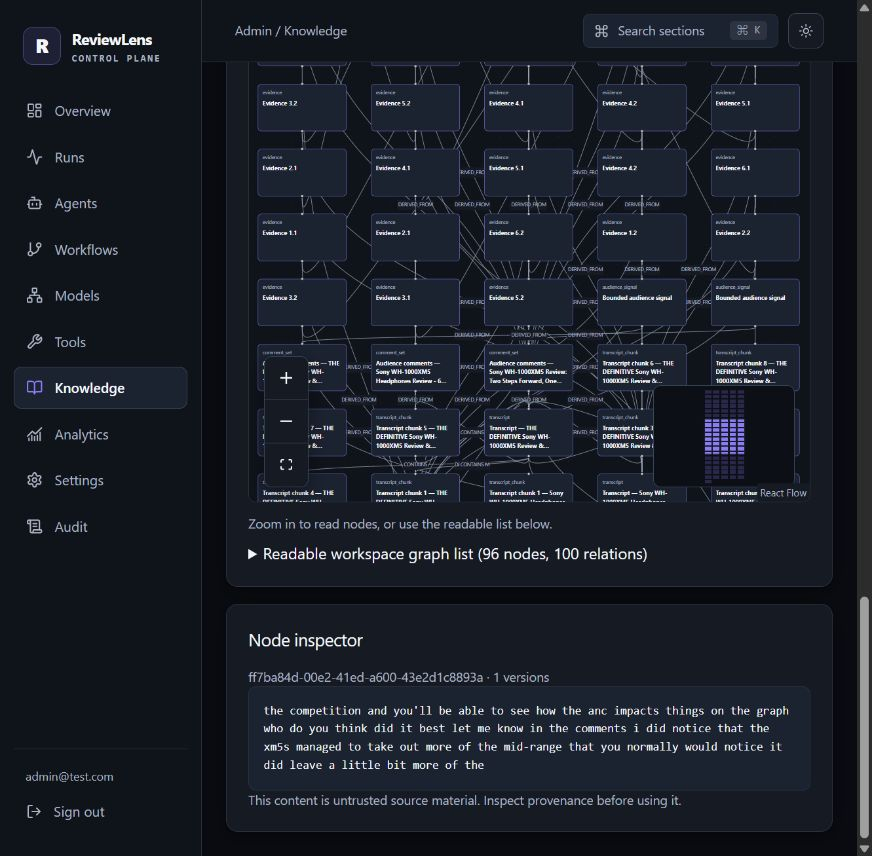
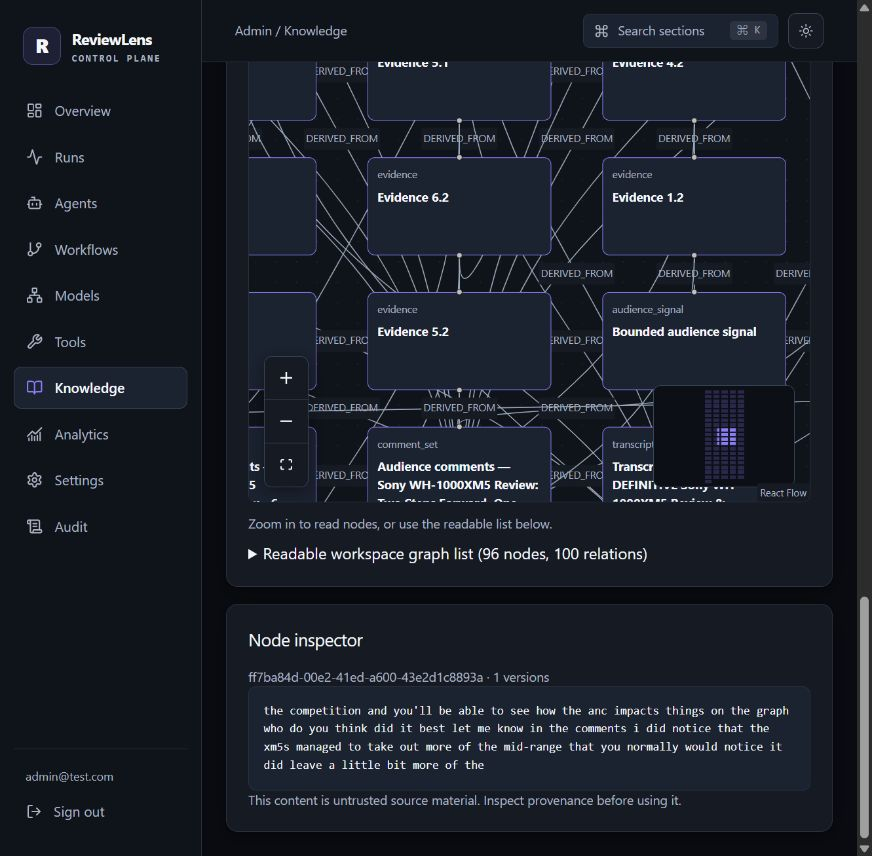
Improve readability of admin knowledge screenshots

Changed region(s): [[0.2787, 0.0607, 0.9289, 0.6075], [0.2787, 0.4252, 0.3096, 0.5771], [0.8979, 0.486, 0.9289, 0.5164]]

diff --git a/ADMIN.md b/ADMIN.md
@@ -150,7 +150,7 @@ Open **Knowledge**, select a workspace, then select a graph node or use **Readab
 
 ![Loaded example workspace graph with themed controls and a populated minimap](docs/assets/admin-knowledge.jpg)
 
-*The graph is zoomed in to show its node cards. Controls, relation labels, and the populated minimap follow the app's theme. Long titles stay within each card; hover for the full title or use the readable list.*
+*This close-up uses approximately 100% graph zoom so node titles are readable. The minimap shows the full workspace. Controls and relation labels follow the app's theme. Hover for a full title or use the readable list.*
 
 ![A selected evidence node with its fully loaded transcript excerpt and version count](docs/assets/admin-knowledge-node.jpg)
 
